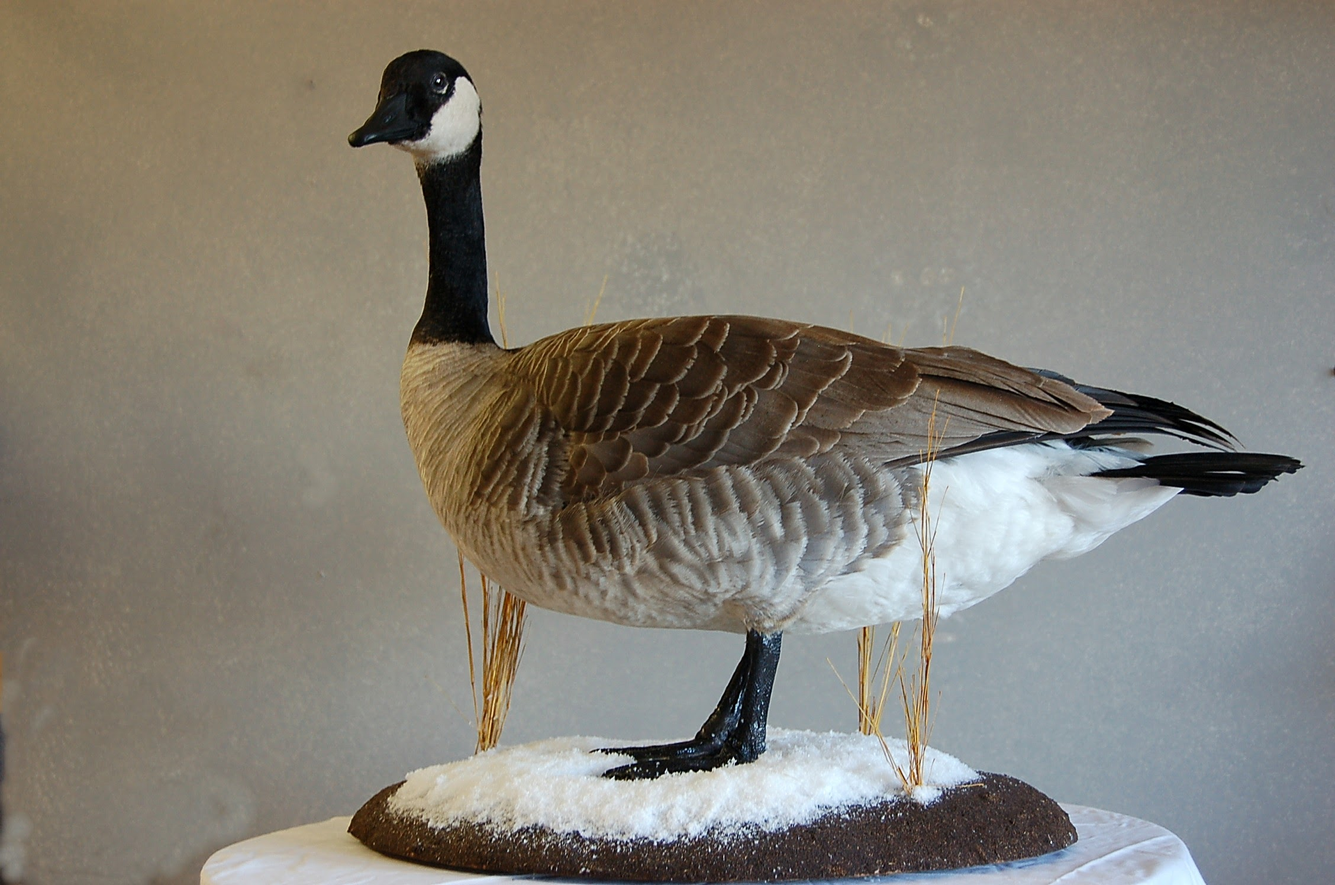
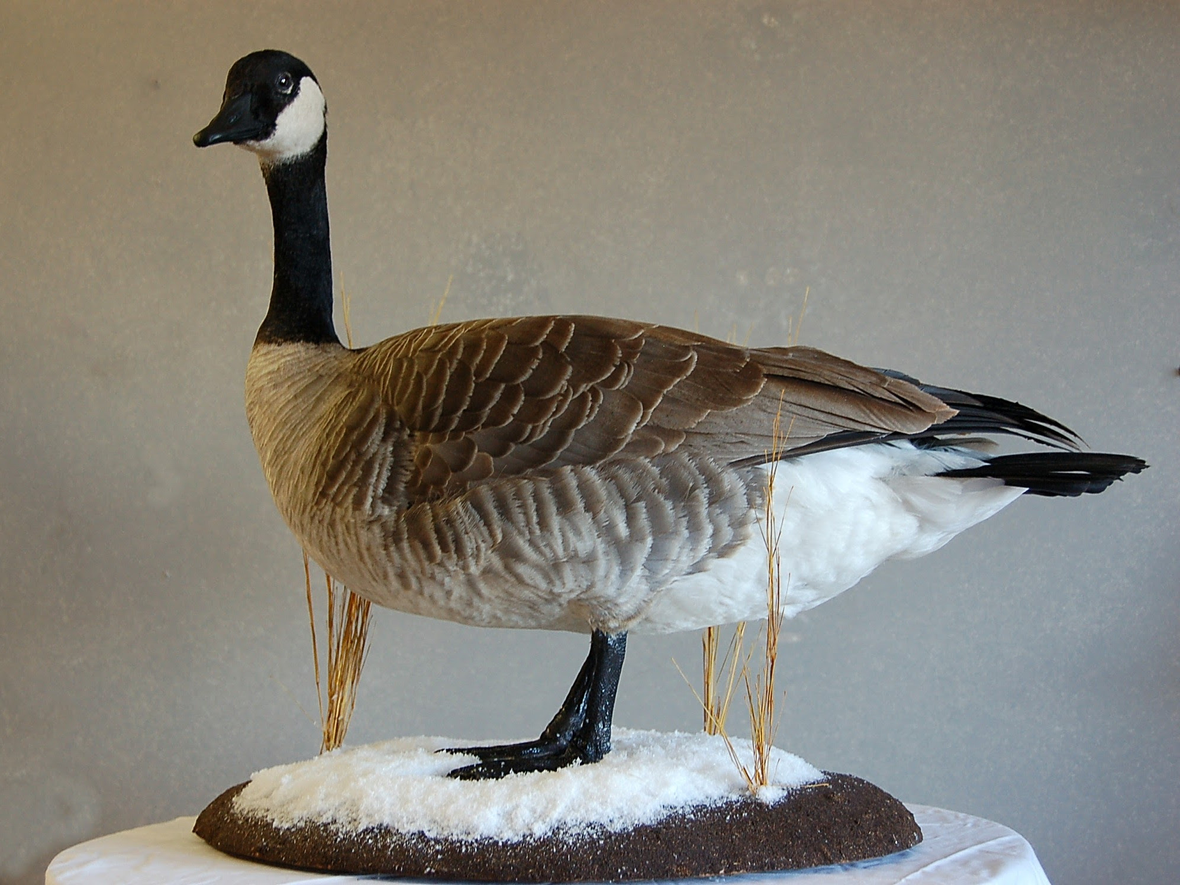
Waterfowl Images
Upload new waterfowl images. Adjusted a few of the thumbnails that were cutting off the right side of the bird.

diff --git a/western-wildlife-creations/Pages/waterfowl.html b/western-wildlife-creations/Pages/waterfowl.html
@@ -90,6 +90,8 @@
 			<h2>Waterfowl</h2>
 		</div>
 		<div class="image-thumbs">
+			<!--Vertical Thumbnails are 316x421px (1.332 ratio)-->
+			<!--Horizontal Thumbnails are 316x237px (0.75 ratio)-->
 			<div>
 				<img src="../Media/waterfowl-1.jpg" href="../Media/popups/waterfowl-1.jpg">
 			</div>
@@ -131,6 +133,15 @@
 			</div>
 			<div>
 				<img src="../Media/waterfowl-15.jpg" href="../Media/popups/waterfowl-15.jpg">
+			</div>
+			<div>
+				<img src="../Media/waterfowl-16.jpg" href="../Media/popups/waterfowl-16.jpg">
+			</div>
+			<div>
+				<img src="../Media/waterfowl-17.jpg" href="../Media/popups/waterfowl-17.jpg">
+			</div>
+			<div>
+				<img src="../Media/waterfowl-18.jpg" href="../Media/popups/waterfowl-18.jpg">
 			</div>
 				
 		</div>

diff --git a/western-wildlife-creations/Pages/north-american.html b/western-wildlife-creations/Pages/north-american.html
@@ -91,7 +91,7 @@
 		</div>
 		<div class="image-thumbs">
 			<div>
-				<img src="../Media/big-game-1.jpg" href="../Media/big-game-1.jpg"> <!--popups are 316x421px (1.332 ratio)-->
+				<img src="../Media/big-game-1.jpg" href="../Media/big-game-1.jpg"> <!--Thumbnails are 316x421px (1.332 ratio)-->
 			</div>
 			<div>
 				<img src="../Media/big-game-2.jpg" href="../Media/popups/big-game-2.jpg">
